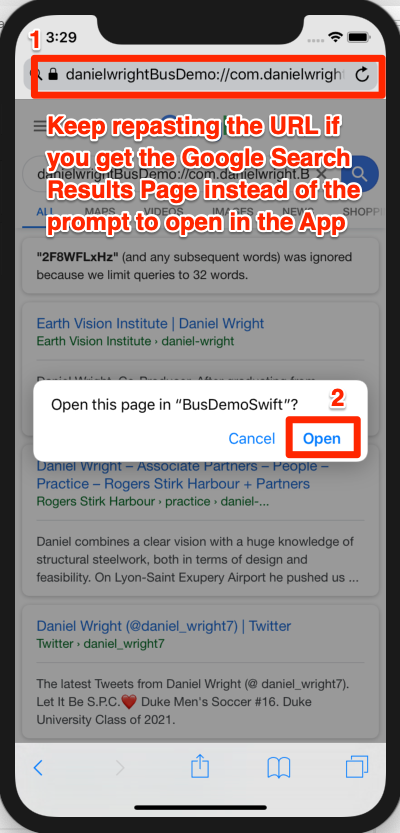
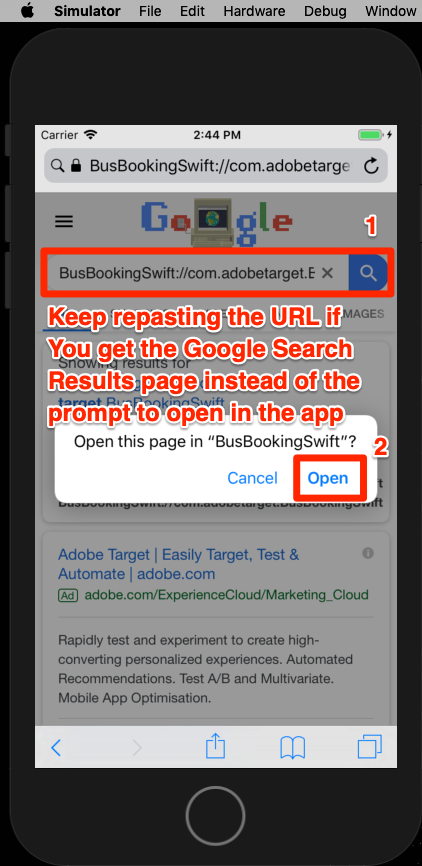
minor updates to target-vec

diff --git a/help/mobile-ios-swift-implementation/target-vec.md b/help/mobile-ios-swift-implementation/target-vec.md
@@ -137,7 +137,7 @@ Now, when a user with your app installed opens a URL like `BusBookingSwift://com
 1. Enter the url `BusBookingSwift://com.adobetarget.BusBookingSwift` (or whatever scheme you defined) into the address bar. If you have any difficulties, see the Tip section below.
 1. You should get prompted with a modal to "Open this page in "BusBookingSwift." If you have any difficulties, see the Tip section below.
 1. Click `Open`
-1. This should open the Bus Booking app!
+1. This should open the Bus Booking app
 
    ![Verify the deep link](images/mobile-targetvec-verifyDeepLink.png)
   
@@ -177,14 +177,14 @@ Now let's create an activity in the Target UI.
 
    ![Add a new app](images/mobile-targetvec-addNewApp.png)
 
-1. Enter the url scheme you just defined in the  **[!UICONTROL Enter URL scheme]** field, e.g. `danielwrightBusDemo://com.danielwright.BusDemo`
+1. Enter the url scheme you just defined in the  **[!UICONTROL Enter URL scheme]** field, e.g. `BusBookingSwift://com.adobetarget.BusBookingSwift`
 1. Click **[!UICONTROL Create Deep Link]**
 
    ![Enter your URL Scheme and Create the Deep Link](images/mobile-targetvec-enterURLScheme.png)
 
-    >![NOTE] You have a few options to send the deep link to the app. You can:
+    >[!NOTE] You have a few options to send the deep link to the app. You can:
     >
-    >   1. Take a photo of the QR code if you have an iOS device linked to XCode
+    >   1. Take a photo of the QR code from your iOS Device (in our tutorial, the device would have to be linked to XCode)
     >   1. Copy the deep link from the Target interface and send it to the device however you would like
     >   1. Email the deep link to a valid email address and then open the link with an email application on the device
 
@@ -216,8 +216,8 @@ Now let's create an activity in the Target UI.
 1. Now position the Simulator next to the browser with the VEC open
 1. Navigate to a different screen in the app and notice how the VEC updates with the Simulator!
 1. You can make updates to multiple views in your app, in a single activity!
-   ![App loads in the VEC](images/mobile-targetvec-navigateTheApp.png)
 1. You can also visually add click-tracking metrics!
+   ![App loads in the VEC](images/mobile-targetvec-navigateTheApp.png)
 
 ## Building Audiences based on Lifecyle metrics
 
